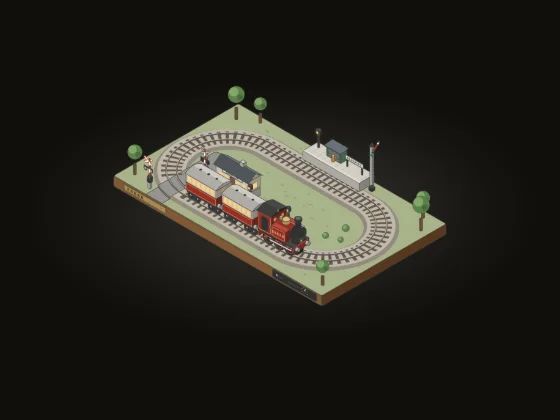
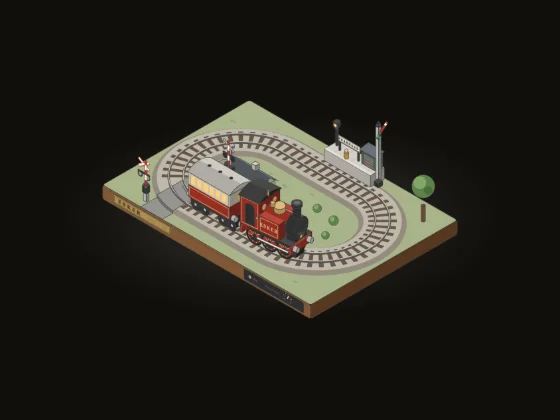
Compact the model train so the train reads bigger: the engine and one coach on a tight loop
The owner wanted the train to be the hero at thumbnail size. It is now the
engine and a single coach on a loop of radius 34 with short straights, on a
board trimmed to the loop (153 x 108, from 207 x 124), and the stock is drawn
stouter; the train reads about 1.4 times bigger in the frame. The station and
the halt have platforms for one coach, the loco standing on the curve at the
station and on the far curve at the halt; the signal and the level crossing
stay. Five trees are gone. The crossing now closes before the train leaves the
halt, and a standing train waits for it there. The leak test counts the svg
only and also sees the crossing reopen.

Changed region(s): [[0.1821, 0.1857, 0.8196, 0.7738]]

diff --git a/packages/miniatures/src/figures/model-train.ts b/packages/miniatures/src/figures/model-train.ts
@@ -30,20 +30,20 @@ const{document,window,matchMedia,requestAnimationFrame,kit}=env;
 /* ESKER L–87 model railway. World: x lower-right; y lower-left (the front straight faces +y); z up from the baseboard's
 top. 1 unit ≈ 2 mm at H0, so a unit a second reads as about a scale km/h.
 Part                          x      y      z      w      d      h
-baseboard (frame, grass)      0      0     −9    207    124      9   fascia: brand plate, throttle knob, run lamp
-track: a stadium, centers (54, 64) and (150, 64), R 40; the front straight (y 104) runs east (+x), the back straight
-       (y 24) west; ballast ±12.5 → ±10 × 1.6, sleepers 14.8 × 2.2 every 5.2, rails ±3.8, rail top z 3.2
-road                         32    124      0     16      –      –   in over the left curve's exit to the forecourt 30–58 × 52–78
-TARNLOW platform             56     80      0     90   15.6    7.4   coping, lamps, bench
-station building             58     68      0     32     12   17.4   stone plinth, cream walls and sign, slate roof to 22.4
-BRAEMOSS halt platform       80    0.6      0     56     15    7.4   shelter, nameboard, lamp
-home signal                 140      7      0      2      2     38   arm pivot z 34 on its +x face, 8.4 long toward −y
-crossing: barrier pedestals 27.5 115.5 (outer) and 48.5 80 (inner), 2 × 2 × 11; booms 16.4 long pivoting at z 9.5
+baseboard (frame, grass)      0      0     −9    153    108      9   fascia: brand plate, throttle knob, run lamp
+track: a stadium, centers (48, 54) and (104, 54), R 34; the front straight (y 88) runs east (+x), the back straight
+       (y 20) west; ballast ±12.5 → ±10 × 1.6, sleepers 14.8 × 2.2 every 5.2, rails ±3.8, rail top z 3.2
+road                         28    108      0     16      –      –   in over the left curve's exit to the forecourt 28–48 × 46–60
+TARNLOW platform             50     69      0     42     10    7.4   coping, lamps, bench
+station building             52     59      0     26     10   17.4   stone plinth, cream walls and sign, slate roof to 22
+BRAEMOSS halt platform       66    0.6      0     34   10.4    7.4   shelter, nameboard, lamp
+home signal                 101      6      0      2      2     38   arm pivot z 34 on its +x face, 7 long toward −y
+crossing: barrier pedestals 25 101 (outer) and 44.5 58 (inner), 2 × 2 × 11; booms 16.4 long pivoting at z 9.5
 loco (0-6-0 tank)  u ±17 v ±7.5: drivers r 4.4 at u −10/0/10; footplate z 12–13.2; tanks u −4.4–9 to z 21.4; boiler r 5
                    at z 18.8; smokebox r 5.3 u 11–16.6; chimney to z 30.6; dome; cab u −17 to −4.4 to z 27.6, roof 29.8
-coaches            u ±15 v ±7.2: bogies at u ±10, wheels r 2.6; underframe z 8.6–10.6; body to z 23.4; roof to 25.8
-The rolling stock is drawn a little stouter than this table (v ×1.07, and ×1.12 up from the rail top) so it reads at
-small sizes. A vehicle sits on the track by the chord between its outer axles or bogies, is built facing its heading and
+coach              u ±15 v ±7.2: bogies at u ±10, wheels r 2.6; underframe z 8.6–10.6; body to z 23.4; roof to 25.8
+The rolling stock is drawn stouter than this table (v ×1.15, and ×1.25 up from the rail top) so it reads at small
+sizes. A vehicle sits on the track by the chord between its outer axles or bogies, is built facing its heading and
 drawn in the order that heading shows its parts; the vehicles and the inner barrier are sorted by footprint every frame. */
 const draw=document.getElementById('drawing');let root=draw;
 const{P,set,TOP,FRONT,SIDE,el,group,rect,circle,line,text,box,cylinder,frame}=kit(()=>root);
@@ -55,57 +55,57 @@ function ctl(g,label){for(const[k,v]of Object.entries({class:'control',role:'but
 function bind(g,fn){g.addEventListener('click',fn);g.addEventListener('keydown',e=>{if(e.key==='Enter'||e.key===' '){e.preventDefault();e.stopPropagation();if(!e.repeat)fn();}});}
 let seed=7;const rand=()=>(seed=(seed*9301+49297)%233280)/233280;
 // The track: a point s along its centerline (east on the front straight, round the right curve, west on the back) and its heading.
-const XL=54,XR=150,YC=64,R=40,LS=XR-XL,ARC=PI*R,LOOP=2*(LS+ARC),W=207,D=124,BH=9;
+const XL=48,XR=104,YC=54,R=34,LS=XR-XL,ARC=PI*R,LOOP=2*(LS+ARC),W=153,D=108,BH=9;
 function at(s){s=((s%LOOP)+LOOP)%LOOP;if(s<LS)return[XL+s,YC+R,0];s-=LS;if(s<ARC){const a=s/R;return[XR+R*sin(a),YC+R*cos(a),-a];}s-=ARC;if(s<LS)return[XR-s,YC-R,-PI];s-=LS;const a=s/R;return[XL-R*sin(a),YC-R*cos(a),-PI-a];}
 const beside=(s,o,z)=>{const[x,y,h]=at(s);return[x-o*sin(h),y+o*cos(h),z];};
 const SS=[];for(let s=0;s<LOOP;s+=2)SS.push(s);
 const ring=(o,z,a=0,b=LOOP,close=true)=>'M'+SS.filter(s=>s>=a&&s<=b).concat(close?[]:[b]).map(s=>P(...beside(s,o,z)).map(f2).join(',')).join('L')+(close?'Z':'');
-const XS0=2*LS+ARC+R*(PI-Math.asin(22/R)),XS1=2*LS+ARC+R*(PI-Math.asin(6/R));
+const XS0=2*LS+ARC+R*(PI-Math.asin(20/R)),XS1=2*LS+ARC+R*(PI-Math.asin(4/R));
 // The floor shadow and the baseboard: its wooden frame, the grass and tufts scattered clear of the track and buildings.
-const fl=wp([[-3,-3,-BH],[W+3,-3,-BH],[W+3,D+3,-BH],[-3,D+3,-BH]]),fc=P(W/2,D/2,-BH);el('path',{d:fl,class:'shadow board-shadow',transform:'translate(0 3)'});el('ellipse',{cx:f2(fc[0]),cy:f2(fc[1]),rx:150,ry:76,class:'stage-pool'});el('path',{d:fl,class:'board-contact',transform:'translate(0 2)'});
+const fl=wp([[-3,-3,-BH],[W+3,-3,-BH],[W+3,D+3,-BH],[-3,D+3,-BH]]),fc=P(W/2,D/2,-BH);el('path',{d:fl,class:'shadow board-shadow',transform:'translate(0 3)'});el('ellipse',{cx:f2(fc[0]),cy:f2(fc[1]),rx:96,ry:44,class:'stage-pool'});el('path',{d:fl,class:'board-contact',transform:'translate(0 2)'});
 const FF=group(FRONT(0,D,0));rect(FF,0,0,W,BH,1.5,'face wood');line(FF,2,1.4,W-2,1.4);
 rect(group(SIDE(W,D,0)),0,0,D,BH,1.5,'face side wood');
 const TG=group(TOP(0,0,0));rect(TG,0,0,W,D,1.5,'face grass');
 const trackD=(x,y)=>x<XL?abs(Math.hypot(x-XL,y-YC)-R):x>XR?abs(Math.hypot(x-XR,y-YC)-R):Math.min(abs(y-YC-R),abs(y-YC+R));
-const busy=(x,y)=>trackD(x,y)<16||x>26&&x<94&&y>48&&y<84||x>24&&x<54&&y>84||x>52&&x<150&&y>76&&y<100||x>76&&x<146&&y<20||x<36&&y<22||x>182&&y<28||x<18&&y>102||x>190&&y>104||x>152&&x<176&&y>50&&y<78;
+const busy=(x,y)=>trackD(x,y)<16||x>24&&x<82&&y>42&&y<72||x>22&&x<48&&y>72||x>46&&x<94&&y>66&&y<82||x>62&&x<106&&y<16||x>128&&y<26||x>88&&x<122&&y>40&&y<66;
 for(let i=0;i<64;i++){const x=4+rand()*(W-8),y=4+rand()*(D-8),a=1+rand()*1.4,b=.5+rand()*.5;if(!busy(x,y))el('ellipse',{cx:f2(x),cy:f2(y),rx:f2(a),ry:f2(b),class:'tuft'},TG);}
 // The road and forecourt, the ballast, the crossing deck over it, the sleepers (none on the deck); rails come later.
-el('path',{d:`M32,${D}V78H33Q30,78 30,75V55Q30,52 33,52H55Q58,52 58,55V75Q58,78 55,78H48V${D}Z`,class:'face road'},group(TOP(0,0,.05)));
+el('path',{d:`M28,${D}V49Q28,46 31,46H45Q48,46 48,49V57Q48,60 45,60H44V${D}Z`,class:'face road'},group(TOP(0,0,.05)));
 el('path',{d:ring(12.5,0)+ring(-12.5,0),'fill-rule':'evenodd',class:'ballast-s'});el('path',{d:ring(10,1.6)+ring(-10,1.6),'fill-rule':'evenodd',class:'ballast'});
-const yr=(x,r)=>YC+sqrt(r*r-(x-XL)**2),XD=[32,35,38,41,44,48];
-el('path',{d:`M${XD.map(x=>`${x},${f2(yr(x,52.5))}`).join('L')}L${[...XD].reverse().map(x=>`${x},${f2(yr(x,27.5))}`).join('L')}Z`,class:'face road'},group(TOP(0,0,1.62)));
-el('path',{d:wp(XD.map(x=>[x,yr(x,52.5),1.62]).concat([...XD].reverse().map(x=>[x,yr(x,52.5),0]))),class:'face road-f'});
+const yr=(x,r)=>YC+sqrt(r*r-(x-XL)**2),XD=[28,31,34,37,40,44];
+el('path',{d:`M${XD.map(x=>`${x},${f2(yr(x,46.5))}`).join('L')}L${[...XD].reverse().map(x=>`${x},${f2(yr(x,21.5))}`).join('L')}Z`,class:'face road'},group(TOP(0,0,1.62)));
+el('path',{d:wp(XD.map(x=>[x,yr(x,46.5),1.62]).concat([...XD].reverse().map(x=>[x,yr(x,46.5),0]))),class:'face road-f'});
 const SLP=[];for(let s=1.3;s<LOOP;s+=5.2){if(s>XS0-1.6&&s<XS1+1.6)continue;SLP.push(wp([beside(s-1.1,-7.4,1.66),beside(s+1.1,-7.4,1.66),beside(s+1.1,7.4,1.66),beside(s-1.1,7.4,1.66)]));}
 el('path',{d:SLP.join(''),class:'sleepers'});
 // Props: lamp posts, nameboards, trees and bushes.
 function lampPost(x,y,z,h){box(x-.5,y-.5,z,1,1,h,.3,'black');box(x-1.3,y-1.3,z+h,2.6,2.6,2.8,.6,'black');const l=circle(group(FRONT(x-1.3,y+1.32,z+h+2.8)),1.3,1.4,.95,'lamp');cylinder(x,y,z+h+2.8,1.7,.5,'z','black');return l;}
 function tree(x,y,r,h){cylinder(x,y,0,1.1,h*.45,'z','trunk');const c=P(x,y,h);circle(root,c[0],c[1],r,'tree');circle(root,c[0]-r*.3,c[1]-r*.32,r*.55,'tree-hi');circle(root,c[0]+r*.42,c[1]+r*.34,r*.36,'tree-d');}
 function bush(x,y,r){const c=P(x,y,r*.7);circle(root,c[0],c[1],r,'tree');circle(root,c[0]-r*.28,c[1]-r*.3,r*.5,'tree-hi');}
-tree(12,14,7.2,21);tree(27,5,5.6,16);tree(190,6,6,17);tree(200,18,7.4,22);
+tree(141,13,7.4,22);
 // The back: the halt's platform, shelter, nameboard and lamp, and the home signal (its arm and spectacle turn on the pivot).
-box(80,.6,0,56,15,7.4,.6,'stone');{const g=group(TOP(80,.6,7.42));rect(g,0,13.2,56,1.8,0,'coping');for(let u=6;u<56;u+=6)line(g,u,0,u,13.2,'joint');}
-box(96,2,7.4,14,6,9.2,.5,'shelter');{const g=group(FRONT(96,8.02,16.6));rect(g,1.6,1.8,10.8,7.4,.6,'face recess');rect(g,2.4,5.8,9.2,1.2,.3,'face top wood');}
-el('path',{d:wp([[110,2,16.6],[110,8,16.6],[110,2,17.4]]),class:'face side shelter'});el('path',{d:wp([[95,1.2,17.6],[111,1.2,17.6],[111,9.4,16.6],[95,9.4,16.6]]),class:'face top slate'});el('path',{d:wp([[95,9.4,16.6],[111,9.4,16.6],[111,9.4,16],[95,9.4,16]]),class:'face slate'});
-for(const u of[115.6,130.4])box(u-.4,6.6,7.4,.8,.8,6.4,.2,'black');{const g=group(FRONT(114,7.42,17.2));rect(g,0,0,18,3.8,.5,'face top cream');rect(g,.5,.5,17,2.8,.3,'detail');text(g,9,2.7,'BRAEMOSS','sign');}
-const L1=lampPost(85,5,7.4,12);
-box(140,7,0,2,2,38,.4,'metal');{const g=group(SIDE(142,9,38));for(let v=6;v<36;v+=3)line(g,.3,v,1.7,v,'detail');}box(139.4,6.4,0,3.2,3.2,3,.6,'black');cylinder(141,8,38,1.3,.8,'z','black');cylinder(141,8,38.8,.5,1.6,'z','black');
-const sigG=ctl(el('g',{}),'Signal: set it to danger or clear it (S)'),SP=group(SIDE(142.1,8,34),sigG),sigArm=el('g',{},SP);
-rect(sigArm,-1,-1,9.4,2,.3,'face arm');rect(sigArm,6,-1,1.2,2,0,'arm-w');rect(sigArm,-3.2,-.7,2.6,3.6,.5,'face black');circle(sigArm,-1.9,.3,.75,'lens-r');circle(sigArm,-1.9,2.1,.75,'lens-g');
-circle(SP,0,0,.6,'face metal');const sigLamp=circle(SP,-1.9,1.2,.7,'sl');rect(SP,-4.6,-4,15,9,1,'hit');rect(SP,-4.6,-4,15,9,1,'focus-ring');
+box(66,.6,0,34,10.4,7.4,.6,'stone');{const g=group(TOP(66,.6,7.42));rect(g,0,8.6,34,1.8,0,'coping');for(let u=6;u<34;u+=6)line(g,u,0,u,8.6,'joint');}
+box(89,1.4,7.4,10.5,5,9.2,.5,'shelter');{const g=group(FRONT(89,6.42,16.6));rect(g,1.3,1.8,7.9,7.4,.6,'face recess');rect(g,1.9,5.8,6.7,1.2,.3,'face top wood');}
+el('path',{d:wp([[99.5,1.4,16.6],[99.5,6.4,16.6],[99.5,1.4,17.4]]),class:'face side shelter'});el('path',{d:wp([[88.4,.8,17.6],[100.1,.8,17.6],[100.1,7.4,16.6],[88.4,7.4,16.6]]),class:'face top slate'});el('path',{d:wp([[88.4,7.4,16.6],[100.1,7.4,16.6],[100.1,7.4,16],[88.4,7.4,16]]),class:'face slate'});
+for(const u of[72.6,86.4])box(u-.4,5.6,7.4,.8,.8,6.4,.2,'black');{const g=group(FRONT(71,6.42,17.2));rect(g,0,0,17,3.8,.5,'face top cream');rect(g,.5,.5,16,2.8,.3,'detail');text(g,8.5,2.7,'BRAEMOSS','sign');}
+const L1=lampPost(68.5,4,7.4,12);
+box(101,6,0,2,2,38,.4,'metal');{const g=group(SIDE(103,8,38));for(let v=6;v<36;v+=3)line(g,.3,v,1.7,v,'detail');}box(100.4,5.4,0,3.2,3.2,3,.6,'black');cylinder(102,7,38,1.3,.8,'z','black');cylinder(102,7,38.8,.5,1.6,'z','black');
+const sigG=ctl(el('g',{}),'Signal: set it to danger or clear it (S)'),SP=group(SIDE(103.1,7,34),sigG),sigArm=el('g',{},SP);
+rect(sigArm,-1,-1,8,2,.3,'face arm');rect(sigArm,4.8,-1,1.2,2,0,'arm-w');rect(sigArm,-3.2,-.7,2.6,3.6,.5,'face black');circle(sigArm,-1.9,.3,.75,'lens-r');circle(sigArm,-1.9,2.1,.75,'lens-g');
+circle(SP,0,0,.6,'face metal');const sigLamp=circle(SP,-1.9,1.2,.7,'sl');rect(SP,-4.6,-4,13.6,9,1,'hit');rect(SP,-4.6,-4,13.6,9,1,'focus-ring');
 // The station: platform with its coping, bench and lamps; the building on its plinth, sign, door, windows, roof and stack.
-box(56,80,0,90,15.6,7.4,.5,'stone');{const g=group(TOP(56,80,7.42));rect(g,0,13.8,90,1.8,0,'coping');for(let u=8;u<90;u+=8)line(g,u,0,u,13.8,'joint');}
-box(114,81.2,7.4,8,2.2,2.6,.4,'wood');
-box(58,68,0,32,12,7.4,.4,'stone');box(58,68,7.4,32,12,10,.4,'cream');
-{const g=group(FRONT(58,80.02,17.4));rect(g,6,.8,20,3,.4,'face top cream');rect(g,6.5,1.3,19,2,.3,'detail');text(g,16,2.95,'TARNLOW','sign');for(const u of[3,8.6,20.2,25.8])rect(g,u,4.6,3.2,4.2,.4,'face win');rect(g,13.7,4.2,4.6,5.8,.5,'face wood');
-const s=group(SIDE(90.02,80,17.4));rect(s,3.6,4.2,4.8,4.2,.4,'face win');}
-el('path',{d:wp([[56.6,66.6,17],[91.4,66.6,17],[91.4,74,22.4],[56.6,74,22.4]]),class:'face top slate'});
-el('path',{d:wp([[90.02,68,17.4],[90.02,80,17.4],[90.02,74,21.9]]),class:'face side cream'});
-el('path',{d:wp([[56.6,74,22.4],[91.4,74,22.4],[91.4,81.4,17],[56.6,81.4,17]]),class:'face slate'});
-box(76,71.4,21.8,3.4,3,3.6,.3,'stone');
-const L2=[lampPost(100,88,7.4,13),lampPost(138,88,7.4,13)];
-bush(163,56,3.2);bush(170,68,2.5);bush(159,72,2.8);
+box(50,69,0,42,10,7.4,.5,'stone');{const g=group(TOP(50,69,7.42));rect(g,0,8.2,42,1.8,0,'coping');for(let u=7;u<42;u+=7)line(g,u,0,u,8.2,'joint');}
+box(68,70,7.4,7,2,2.6,.4,'wood');
+box(52,59,0,26,10,7.4,.4,'stone');box(52,59,7.4,26,10,10,.4,'cream');
+{const g=group(FRONT(52,69.02,17.4));rect(g,4,.8,18,3,.4,'face top cream');rect(g,4.5,1.3,17,2,.3,'detail');text(g,13,2.95,'TARNLOW','sign');for(const u of[1.8,6.2,17.4,21.8])rect(g,u,4.6,3,4.2,.4,'face win');rect(g,11.2,4.2,3.6,5.8,.5,'face wood');
+const s=group(SIDE(78.02,69,17.4));rect(s,3,4.2,4,4.2,.4,'face win');}
+el('path',{d:wp([[50.8,57.8,17],[79.2,57.8,17],[79.2,64,22],[50.8,64,22]]),class:'face top slate'});
+el('path',{d:wp([[78.02,59,17.4],[78.02,69,17.4],[78.02,64,21.6]]),class:'face side cream'});
+el('path',{d:wp([[50.8,64,22],[79.2,64,22],[79.2,70.2,17],[50.8,70.2,17]]),class:'face slate'});
+box(66,61.6,21.4,3,2.8,3.4,.3,'stone');
+const L2=[lampPost(56,72,7.4,13),lampPost(88,72,7.4,13)];
+bush(110,48,3.2);bush(116,60,2.6);bush(96,46,2.8);
 function person(x,y,m){cylinder(x,y,7.4,1.15,3.4,'z',m);const h=P(x,y,12.1);circle(root,h[0],h[1],1.05,'face skin');}
-person(97,84.5,'coat-a');person(99.6,85.8,'coat-b');person(126,84,'coat-c');person(104,9.5,'coat-b');
+person(60,71.5,'coat-a');person(62.6,72.6,'coat-b');person(81,71,'coat-c');person(80,8.6,'coat-b');
 // The crossing's barriers: a pedestal and mast, the boom on its pivot (striped, with a counterweight), the crossbuck and lights.
 function barrier(x,y,out){const g0=el('g',{});into(g0);box(x,y,0,2,2,11,.4,'metal');box(x-.4,y-.4,5.4,2.8,2.8,4.6,.6,'black');box(x+.6,y+.6,11,.8,.8,12,.2,'metal');
 const g=group(FRONT(x+1,y+2.6,24));for(const a of[32,-32])rect(g,-4.6,-.8,9.2,1.6,.4,out?'cross':'face metal').setAttribute('transform',`rotate(${a})`);
@@ -113,21 +113,20 @@ rect(g,-4.4,5.2,8.8,1.2,.4,'face black');const L=[-2.8,2.8].map(u=>{circle(g,u,7
 const pv=group(FRONT(x+(out?1.8:.2),y+2.1,9.5)),arm=el('g',{},pv);for(let i=0;i<5;i++)rect(arm,-.8,-1.2-(i+1)*3.2,1.6,3.2,0,i%2?'boom':'boom-r');rect(arm,-.8,-17.2,1.6,16,.6,'detail');rect(arm,-1.1,0,2.2,2.6,.5,'face black');circle(pv,0,0,.5,'face metal');
 into(draw);return{g:g0,arm,L,H,s:out?1:-1};}
 // The fascia: the brand plate, the throttle knob with its notches and the run lamp.
-{const g=group(FRONT(0,D+.02,0));rect(g,10,1.8,42,5.4,1,'face brass');rect(g,10.7,2.5,40.6,4,.6,'detail');text(g,13.4,5.7,'ESKER','plate');text(g,35,5.5,'L–87 · H0','etch micro');}
-const knobG=ctl(el('g',{}),'Throttle: open it a notch (Up arrow)'),KF=group(FRONT(0,D+.02,0),knobG);rect(KF,158,1.1,44,6.8,1.2,'face panel');
-for(let i=0;i<6;i++){const a=(-120+i*48)*RAD;line(KF,190+2.7*sin(a),4.5-2.7*cos(a),190+3.3*sin(a),4.5-3.3*cos(a),'tick');}
-circle(KF,190,4.5,2.2,'face knob');const knobP=line(KF,190,4.5,190,2.6,'ptr');circle(KF,190,4.5,4,'focus-ring');text(KF,173.5,5.2,'THROTTLE','etch micro').style.fontSize='1.8px';
-const runL=circle(KF,162.4,4.5,1,'run');text(KF,164.4,5.2,'RUN','etch micro').style.fontSize='1.8px';
+{const g=group(FRONT(0,D+.02,0));rect(g,8,1.8,42,5.4,1,'face brass');rect(g,8.7,2.5,40.6,4,.6,'detail');text(g,11.4,5.7,'ESKER','plate');text(g,33,5.5,'L–87 · H0','etch micro');}
+const knobG=ctl(el('g',{}),'Throttle: open it a notch (Up arrow)'),KF=group(FRONT(0,D+.02,0),knobG);rect(KF,104,1.1,44,6.8,1.2,'face panel');
+for(let i=0;i<6;i++){const a=(-120+i*48)*RAD;line(KF,136+2.7*sin(a),4.5-2.7*cos(a),136+3.3*sin(a),4.5-3.3*cos(a),'tick');}
+circle(KF,136,4.5,2.2,'face knob');const knobP=line(KF,136,4.5,136,2.6,'ptr');circle(KF,136,4.5,4,'focus-ring');text(KF,119.5,5.2,'THROTTLE','etch micro').style.fontSize='1.8px';
+const runL=circle(KF,108.4,4.5,1,'run');text(KF,110.4,5.2,'RUN','etch micro').style.fontSize='1.8px';
 // Rails over everything on the ground, flangeways across the deck; then the train's layer (sorted), the front, the steam.
 for(const o of[-3.8,3.8])el('path',{d:ring(o,2.5),class:'rail'});for(const o of[-3.8,3.8])el('path',{d:ring(o,3.2),class:'railtop'});
 for(const o of[-2.6,2.6])el('path',{d:ring(o,1.64,XS0,XS1,false),class:'flange'});
 const trainG=ctl(el('g',{}),'Train: depart, or stop at the next station (Space)');
-const XB=[barrier(48.5,80,false),barrier(27.5,115.5,true)];trainG.appendChild(XB[0].g);set(XB[0].g,'class','ghost');
-tree(9,112,6.4,19);tree(198,114,5.6,16);
+const XB=[barrier(44.5,58,false),barrier(25,101,true)];trainG.appendChild(XB[0].g);set(XB[0].g,'class','ghost');
 const puffL=el('g',{});
-frame([[0,0,-BH,W,D,BH],[5,6,0,14,14,28],[194,12,0,12,12,30],[139,6,0,4,4,40]],10);
+frame([[0,0,-BH,W,D,BH],[134,6,0,14,14,29],[100,5,0,4,4,40],[20,20,0,.1,.1,30]],10);
 // The vehicles, built facing their heading at the origin and moved into place: axes, the faces the viewer sees, parts.
-let U=[1,0,0],V=[0,1,0],sU=1,sV=1;const KV=1.07,KW=1.12,RT=3.2;
+let U=[1,0,0],V=[0,1,0],sU=1,sV=1;const KV=1.15,KW=1.25,RT=3.2;
 const LL=(u,v,w)=>[u*U[0]+v*KV*V[0],u*U[1]+v*KV*V[1],RT+(w-RT)*KW],LP=(u,v,w)=>P(...LL(u,v,w)),DN=[0,0,-1],DW=[0,0,-KW],VS=()=>[V[0]*KV,V[1]*KV,0],neg=a=>[-a[0],-a[1],0];
 const kOf=n=>clamp((n[0]-n[1]+1)/2),shade=(d,k)=>{el('path',{d,class:'sh',opacity:f2(k>.03?k:0)});};
 // A box in the vehicle's frame: the end and side it shows (each decorated, then shaded by how it faces) and its top.
@@ -181,8 +180,8 @@ roof(-15.4,15.4,7.6,23.4,2.4,'roofc');el('path',{d:[-8,0,8].map(u=>{const c=LP(u
 buffers(-15*hid,-hid,c.buf[hid>0?1:0]);
 el('path',{d:pd(hull([LP(-17.4,-7.2,3),LP(17.4,-7.2,3),LP(17.4,7.2,3),LP(-17.4,7.2,3),LP(-15.4,-7.6,25.8),LP(15.4,-7.6,25.8),LP(-15.4,7.6,25.8),LP(15.4,7.6,25.8)])),class:'focus-ring'});}
 // The consist: each vehicle's offset from the train's head (the loco's front buffers), its half-length, its pivots' half-spacing.
-const CARS=[{k:'loco',off:-19.4,half:17,b:10},{k:'coach',off:-57.4,half:15,b:10},{k:'coach',off:-93.4,half:15,b:10,tail:true}].map(c=>({...c,g:el('g',{},trainG),key:'',buf:[[2.4,2.4],[2.4,2.4]]}));
-const TAIL=110.8,QH=1.5*RAD;
+const CARS=[{k:'loco',off:-19.4,half:17,b:10},{k:'coach',off:-59.4,half:15,b:10,tail:true}].map(c=>({...c,g:el('g',{},trainG),key:'',buf:[[2.4,2.4],[2.4,2.4]]}));
+const TAIL=76.8,QH=1.5*RAD;
 function poseCar(c,head){const a=at(head+c.off+c.b),b=at(head+c.off-c.b),h=Math.atan2(a[1]-b[1],a[0]-b[0]);return{x:(a[0]+b[0])/2,y:(a[1]+b[1])/2,h};}
 // Buffers compress where two vehicles' ends close up on a curve.
 function squeeze(poses){for(let i=0;i<CARS.length-1;i++){const A=poses[i],B=poses[i+1],ha=CARS[i].half,hb=CARS[i+1].half;
@@ -192,15 +191,15 @@ function build(c,pose){U=[cos(pose.h),sin(pose.h),0];V=[-sin(pose.h),cos(pose.h)
 function behind(A,B){for(const Q of[A,B])for(let i=0;i<Q.length;i++){const a=Q[i],b=Q[(i+1)%Q.length],n=[b[1]-a[1],a[0]-b[0]],pa=A.map(p=>p[0]*n[0]+p[1]*n[1]),pb=B.map(p=>p[0]*n[0]+p[1]*n[1]);
 if(Math.max(...pa)<=Math.min(...pb)+1e-6)return n[0]+n[1]>0;if(Math.max(...pb)<=Math.min(...pa)+1e-6)return n[0]+n[1]<0;}const c=Q=>Q.reduce((s,p)=>s+p[0]+p[1],0)/Q.length;return c(A)<c(B);}
 function sortLayer(items){const out=[],left=[...items];while(left.length){const i=left.findIndex(a=>!left.some(b=>b!==a&&behind(b.fp,a.fp)));out.push(...left.splice(i<0?0:i,1));}let prev=null;for(const it of out){if(it.g.previousSibling!==prev||it.g.parentNode!==trainG)trainG.insertBefore(it.g,prev?prev.nextSibling:trainG.firstChild);prev=it.g;}}
-const foot=(p,half)=>{const u=[cos(p.h),sin(p.h)],v=[-u[1],u[0]];return[[1,1],[1,-1],[-1,-1],[-1,1]].map(([a,b])=>[p.x+u[0]*half*a+v[0]*8.2*b,p.y+u[1]*half*a+v[1]*8.2*b]);};
-const XBI={g:XB[0].g,fp:[[31,79.5],[51,79.5],[51,82.5],[31,82.5]]};
+const foot=(p,half)=>{const u=[cos(p.h),sin(p.h)],v=[-u[1],u[0]];return[[1,1],[1,-1],[-1,-1],[-1,1]].map(([a,b])=>[p.x+u[0]*half*a+v[0]*8.8*b,p.y+u[1]*half*a+v[1]*8.8*b]);};
+const XBI={g:XB[0].g,fp:[[27,57.5],[47,57.5],[47,60.5],[27,60.5]]};
 // Steam: puffs from the chimney with each beat, drifting up and spreading; the whistle's plume; the cylinder cocks.
 const PUFFS=[...Array(26)].map(()=>({n:el('circle',{r:0,class:'puff',opacity:0},puffL),t0:-1}));
 function puff(p,vel,r0,r1,life,a,now){const q=PUFFS.find(q=>q.t0<0)||PUFFS.reduce((x,y)=>x.t0<y.t0?x:y);Object.assign(q,{p,vel,r0,r1,life,a,t0:now});}
 function stepPuffs(now){for(const q of PUFFS){if(q.t0<0)continue;const k=(now-q.t0)/q.life;if(k>=1){q.t0=-1;set(q.n,'opacity',0);continue;}const e=1-(1-k)**2,s=P(q.p[0]+q.vel[0]*e,q.p[1]+q.vel[1]*e,q.p[2]+q.vel[2]*e);set(q.n,'cx',f2(s[0]));set(q.n,'cy',f2(s[1]));set(q.n,'r',f2(q.r0+(q.r1-q.r0)*e));set(q.n,'opacity',f2(q.a*(1-k)**1.4));}}
 // State: the stations, the timetable, the throttle, the signal and the crossing; progress; audio after a gesture.
 const reduced=matchMedia('(prefers-reduced-motion: reduce)'),readout=document.getElementById('readout'),stateLabel=document.getElementById('state'),announcement=document.getElementById('announcement');
-const NAME=['TARNLOW','BRAEMOSS'],SAY=['Tarnlow','Braemoss'],STOP=[LS+18,LS+ARC+(XR-60)],DWELL=[3200,2400],LAMPS=[L2,[L1]],SIG=LS+ARC,SIGX=LS+ARC+(XR-141),SPEED=[0,18,30,42,54,66],A=22,B=24;
+const NAME=['TARNLOW','BRAEMOSS'],SAY=['Tarnlow','Braemoss'],STOP=[LS+22,2*LS+ARC+R*Math.asin(19.4/R)],DWELL=[3200,2400],LAMPS=[L2,[L1]],SIG=LS+ARC-3,SIGX=LS+ARC+(XR-102),SPEED=[0,18,30,42,54,66],A=22,B=24;
 let s=STOP[0],v=0,notch=3,hold=false,phase='dwell',stn=0,next=1,dwellEnd=0,danger=false,sigSkip=false,mode='ind',target=0,done=0,trip=null,xing='open',xT=0,boom=0,flashOn=false,lastFlash=-1,dist=0,beat=0,clack=0,lastPuff=0,cocks=-1e9,whistleT=-1e9,knobA=-999,armA=null,armV=0,lit='',last=0,lastUI=0,note='',noteT=0,ac=null,nb=null;
 const ahead=p=>((p-s)%LOOP+LOOP)%LOOP,say=m=>{announcement.textContent=m;},notice=m=>{note=m;noteT=performance.now()+1600;lastUI=0;};
 function audio(){try{if(!ac){const AC=window.AudioContext||window.webkitAudioContext;if(!AC)return;ac=new AC();}if(ac.state==='suspended')ac.resume().catch(()=>{});}catch(_){ac=null;}}
@@ -233,7 +232,7 @@ const ro=mode==='ind'?`${sp} KM/H · NEXT: ${NAME[phase==='dwell'?(stn+1)%2:next
 let st;if(now<noteT)st=note;else if(done===2)st=`COMPLETE · ARRIVED AT ${NAME[stn]}`;else if(sig&&toSig<.6&&v<.5)st='AT THE SIGNAL · S CLEARS IT';else if(sig&&toSig<v*v/(2*B)+8&&v>.5)st='SIGNAL AT DANGER · BRAKING';
 else if(phase==='dwell')st=mode!=='ind'?(done?`FINISHING · AT ${NAME[stn]}`:stn===trip.to?`AT ${NAME[stn]} · ${pct}%`:`AT ${NAME[stn]} · WAITING TO START`):dwellEnd===Infinity?`HELD AT ${NAME[stn]} · SPACE TO DEPART`:`AT ${NAME[stn]} · DEPARTS IN ${Math.max(1,Math.ceil((dwellEnd-now)/1000))} S`;
 else if(mode!=='ind')st=done?`FINISHING · TO ${NAME[trip.to]}`:v>.5?`RUNNING TO ${pct}% · ${sp} KM/H`:`WAITING AT ${pct}%`;
-else if(notch===0)st=v>.5?'THROTTLE CLOSED · BRAKING':'STANDING · THROTTLE CLOSED';
+else if(notch===0)st=v>.5?'THROTTLE CLOSED · BRAKING':'STANDING · THROTTLE CLOSED';else if(v<.5&&xing!=='closed'&&ahead(XS0)<70)st='WAITING FOR THE CROSSING';
 else if(stopAbs(next)-s<v*v/(2*B)+6&&v>.5)st=`STOPPING AT ${NAME[next]}${hold?' · TO HOLD':''}`;else st=`${xing!=='open'?'CROSSING CLOSED':'RUNNING'} · THROTTLE ${notch}/5${hold?' · HOLD AT '+NAME[next]:''}`;
 return[ro,st];}
 function tick(now){const dt=Math.min(.05,(now-(last||now))/1000),red=reduced.matches;last=now;
@@ -242,9 +241,9 @@ if(phase==='dwell'&&mode==='ind'&&now>=dwellEnd)depart();
 // Authority, how far the head may go: its next stop, the signal at danger, a progress mark, the crossing until it's down.
 let goal=phase==='dwell'?s:stopAbs(next);if(mode!=='ind'&&trip)goal=Math.min(goal,done?trip.s1:trip.s0+(trip.s1-trip.s0)*target);
 if(danger&&!sigSkip&&ahead(SIG)<LOOP/2)goal=Math.min(goal,s+ahead(SIG));
-const toX=ahead(XS0),onX=toX>LOOP-(TAIL+XS1-XS0+3),want=goal-s>toX+.5&&toX<LOOP/2&&toX<v*v/(2*B)+v*3.2+30;
+const toX=ahead(XS0),onX=toX>LOOP-(TAIL+XS1-XS0+3),want=goal-s>toX+.5&&toX<LOOP/2&&toX<v*v/(2*B)+v*3.2+72||phase==='dwell'&&mode==='ind'&&dwellEnd-now<2200&&toX<90;
 if(!red&&(want||onX)){if(xing==='open'||xing==='raising'){xing='warn';xT=now;}}else if(xing!=='open'&&xing!=='raising'){xing='raising';xT=now;}
-if(!red&&xing!=='closed'&&toX<LOOP/2)goal=Math.min(goal,v<.5&&toX<30?s:s+toX-2.5);
+if(!red&&xing!=='closed'&&toX<LOOP/2)goal=Math.min(goal,v<.5&&toX<70?s:s+toX-2.5);
 // Motion: up to the throttle's speed, easing in; braking so it comes to rest right at the goal.
 const vmax=mode==='ind'?SPEED[notch]:Math.max(SPEED[notch],done?42:30);
 if(red){if(phase==='run'&&vmax>0&&goal>s+.5)s=goal;v=0;}else{const vb=sqrt(2*B*Math.max(0,goal-s)+6.25)-2.5,lim=Math.min(vmax,vb);
@@ -270,7 +269,7 @@ if(now-whistleT<650&&now-lastPuff>55){lastPuff=now;puff([lp.x-5.2*hU[0],lp.y-5.2
 const j=Math.floor(dist/18);if(j!==clack){clack=j;if(ac&&v>6){noise(.025,.012*clamp(v/40),2400,3);noise(.025,.01*clamp(v/40),2000,3,Math.min(.2,9/v));}}}
 stepPuffs(now);
 // The fascia's knob turns to its notch and the run lamp lights while the train moves; the signal's arm drops and lifts.
-const ka=-120+notch*48;knobA=red||knobA<-200||abs(ka-knobA)<.05?ka:knobA+(ka-knobA)*clamp(dt*10);set(knobP,'transform',`rotate(${f2(knobA)} 190 4.5)`);set(runL,'class',v>.3?'run on':'run');
+const ka=-120+notch*48;knobA=red||knobA<-200||abs(ka-knobA)<.05?ka:knobA+(ka-knobA)*clamp(dt*10);set(knobP,'transform',`rotate(${f2(knobA)} 136 4.5)`);set(runL,'class',v>.3?'run on':'run');
 const ta=danger?0:-40;if(armA==null||red){armA=ta;armV=0;}else{armV+=((ta-armA)*190-armV*15)*dt;armA+=armV*dt;if(abs(ta-armA)<.05&&abs(armV)<.5){armA=ta;armV=0;}}set(sigArm,'transform',`rotate(${f2(armA)})`);set(sigLamp,'class',danger?'sl r':'sl g');
 // On completion the destination's lamps turn green.
 const lk=done===2?'g'+stn:'';if(lk!==lit){lit=lk;LAMPS.forEach((ls,i)=>ls.forEach(l=>set(l,'class',done===2&&i===stn?'lamp g':'lamp')));}

diff --git a/packages/miniatures/src/model-train.test.tsx b/packages/miniatures/src/model-train.test.tsx
@@ -45,7 +45,7 @@ describe('ModelTrain', () => {
     expect(said(inside)).toBe('Departing Tarnlow for Braemoss.')
   })
 
-  it('Space while running stops it at the next station and holds it there until Space again', async () => {
+  it('Space while running stops it at the next station and holds it there; Space again waits for the crossing and departs', async () => {
     const run = useFrames()
     const { handle } = mount(MiniatureModelTrain)
     await run(4000)
@@ -55,7 +55,9 @@ describe('ModelTrain', () => {
     await run(9000)
     expect(handle().getSnapshot()).toMatchObject({ readout: '0 KM/H · NEXT: TARNLOW', state: 'HELD AT BRAEMOSS · SPACE TO DEPART' })
     act(() => handle().press(' '))
-    await run(1500)
+    await run(500)
+    expect(handle().getSnapshot().state).toBe('WAITING FOR THE CROSSING')
+    await run(2500)
     expect(speed(handle().getSnapshot().readout)).toBeGreaterThan(5)
   })
 
@@ -75,13 +77,13 @@ describe('ModelTrain', () => {
     expect(seen.every((v, i) => i === 0 || v >= seen[i - 1]!)).toBe(true)
     expect(seen[0]).toBeLessThan(30)
     expect(seen[seen.length - 1]).toBeGreaterThan(50)
-    expect(knob.getAttribute('transform')).toBe('rotate(120.00 190 4.5)')
+    expect(knob.getAttribute('transform')).toBe('rotate(120.00 136 4.5)')
     for (let i = 0; i < 5; i++) act(() => handle().press('ArrowDown'))
     await run(300)
     expect(handle().getSnapshot().state).toBe('THROTTLE CLOSED · BRAKING')
     await run(3000)
     expect(handle().getSnapshot()).toMatchObject({ readout: '0 KM/H · NEXT: BRAEMOSS', state: 'STANDING · THROTTLE CLOSED' })
-    expect(knob.getAttribute('transform')).toBe('rotate(-120.00 190 4.5)')
+    expect(knob.getAttribute('transform')).toBe('rotate(-120.00 136 4.5)')
     act(() => handle().press('ArrowUp'))
     await run(1500)
     expect(speed(handle().getSnapshot().readout)).toBeGreaterThan(0)
@@ -215,9 +217,9 @@ describe('ModelTrain', () => {
 
   it('keeps the same number of nodes frame after frame, through travel, every key, progress and reduced motion', async () => {
     const run = useFrames()
-    const { handle, inside, rerender, ref } = mount(MiniatureModelTrain, { reducedMotion: 'never' })
+    const { handle, svg, rerender, ref } = mount(MiniatureModelTrain, { reducedMotion: 'never' })
     await run(100)
-    const nodes = () => inside.querySelectorAll('*').length
+    const nodes = () => svg().querySelectorAll('*').length
     const start = nodes()
     const counts = new Set([start])
     const at: Record<number, () => void> = {
@@ -231,14 +233,17 @@ describe('ModelTrain', () => {
       110: () => handle().press(' '),
     }
     let crossed = false
+    let reopened = false
     for (let i = 0; i < 260; i++) {
       if (at[i]) act(() => at[i]!())
       if (handle().getSnapshot().state.startsWith('HELD AT BRAEMOSS')) act(() => handle().press(' '))
       await run(100)
       counts.add(nodes())
       if (handle().getSnapshot().state.startsWith('CROSSING CLOSED')) crossed = true
+      else if (crossed && handle().getSnapshot().state.startsWith('RUNNING')) reopened = true
     }
     expect(crossed).toBe(true)
+    expect(reopened).toBe(true)
     for (const props of [{ progress: 0.4 }, { progress: 0.4, done: true, reducedMotion: 'always' as const }, {}]) {
       rerender(<MiniatureModelTrain ref={ref} reducedMotion="never" {...props} />)
       for (let i = 0; i < 25; i++) {

diff --git a/packages/miniatures/src/meta/model-train.ts b/packages/miniatures/src/meta/model-train.ts
@@ -9,7 +9,7 @@ export const modelTrain = {
   study: '087',
   spec: 'L–87 / H0 1:87 · 16.5 MM GAUGE · TANK ENGINE · 12 V DC',
   label: 'Model train, ESKER L–87',
-  description: 'A model railway on a wooden baseboard: a crimson tank engine and its crimson-and-cream coaches loop a ballasted oval past a country station, a halt with its home signal and a level crossing whose barriers lower and lights flash as the train comes. It runs to a timetable, calling at each station in turn. Space departs it or stops it at the next station, the arrows open and close the throttle with smooth acceleration and braking, S sets the signal to danger so the train brakes and waits at it, and W blows the whistle. As a progress indicator the trip from one station to the next follows the progress, and on completion the train pulls in and the platform lamps turn green.',
+  description: 'A model railway on a wooden baseboard: a crimson tank engine and its crimson-and-cream coach loop a ballasted oval past a country station, a halt with its home signal and a level crossing whose barriers lower and lights flash as the train comes. It runs to a timetable, calling at each station in turn. Space departs it or stops it at the next station, the arrows open and close the throttle with smooth acceleration and braking, S sets the signal to danger so the train brakes and waits at it, and W blows the whistle. As a progress indicator the trip from one station to the next follows the progress, and on completion the train pulls in and the platform lamps turn green.',
   keys: [
     { keys: [' '], caps: ['Space'], label: 'depart / stop' },
     { keys: ['ArrowUp', 'ArrowDown'], caps: ['↑', '↓'], label: 'throttle' },
@@ -17,6 +17,6 @@ export const modelTrain = {
     { keys: ['w'], caps: ['W'], label: 'whistle' },
   ],
   initial: { readout: '0 KM/H · NEXT: BRAEMOSS', state: 'AT TARNLOW · DEPARTS IN 3 S', pressed: {} },
-  viewBox: '-117.38715006927039 -32.5 306.6544086526492 217',
+  viewBox: '-103.53074360871936 -20 246.0326303877385 169.5',
   progress: true,
 } as const satisfies MiniatureMeta

diff --git a/packages/miniatures/src/model-train.tsx b/packages/miniatures/src/model-train.tsx
@@ -12,7 +12,7 @@ export interface MiniatureModelTrainProps extends MiniatureProgressProps {
 }
 
 /**
- * ESKER L–87, model train. A model railway on a wooden baseboard: a crimson tank engine and its crimson-and-cream coaches loop a ballasted oval past a country station, a halt with its home signal and a level crossing whose barriers lower and lights flash as the train comes. It runs to a timetable, calling at each station in turn. Space departs it or stops it at the next station, the arrows open and close the throttle with smooth acceleration and braking, S sets the signal to danger so the train brakes and waits at it, and W blows the whistle. As a progress indicator the trip from one station to the next follows the progress, and on completion the train pulls in and the platform lamps turn green.
+ * ESKER L–87, model train. A model railway on a wooden baseboard: a crimson tank engine and its crimson-and-cream coach loop a ballasted oval past a country station, a halt with its home signal and a level crossing whose barriers lower and lights flash as the train comes. It runs to a timetable, calling at each station in turn. Space departs it or stops it at the next station, the arrows open and close the throttle with smooth acceleration and braking, S sets the signal to danger so the train brakes and waits at it, and W blows the whistle. As a progress indicator the trip from one station to the next follows the progress, and on completion the train pulls in and the platform lamps turn green.
  *
  * Keys: Space depart / stop · ↑ ↓ throttle · S signal · W whistle.
  */

diff --git a/.changeset/miniature-model-train.md b/.changeset/miniature-model-train.md
@@ -2,4 +2,4 @@
 '@youj/miniatures': patch
 ---
 
-New miniature: the model train (`@youj/miniatures/model-train`, `MiniatureModelTrain`), a model railway on a wooden baseboard. A crimson tank engine and its coaches run a timetable round a ballasted oval, calling at a country station and a halt; the barriers of a level crossing come down and its lights flash as the train comes. Space departs it or stops it at the next station, the arrows open and close the throttle with smooth acceleration and braking, S sets the home signal to danger so the train brakes and waits at it, and W blows the whistle. It is also a progress indicator: the trip from one station to the next follows `progress`, and `done` brings the train in with the platform lamps turning green.
+New miniature: the model train (`@youj/miniatures/model-train`, `MiniatureModelTrain`), a model railway on a wooden baseboard. A crimson tank engine and its coach run a timetable round a ballasted oval, calling at a country station and a halt; the barriers of a level crossing come down and its lights flash as the train comes. Space departs it or stops it at the next station, the arrows open and close the throttle with smooth acceleration and braking, S sets the home signal to danger so the train brakes and waits at it, and W blows the whistle. It is also a progress indicator: the trip from one station to the next follows `progress`, and `done` brings the train in with the platform lamps turning green.
